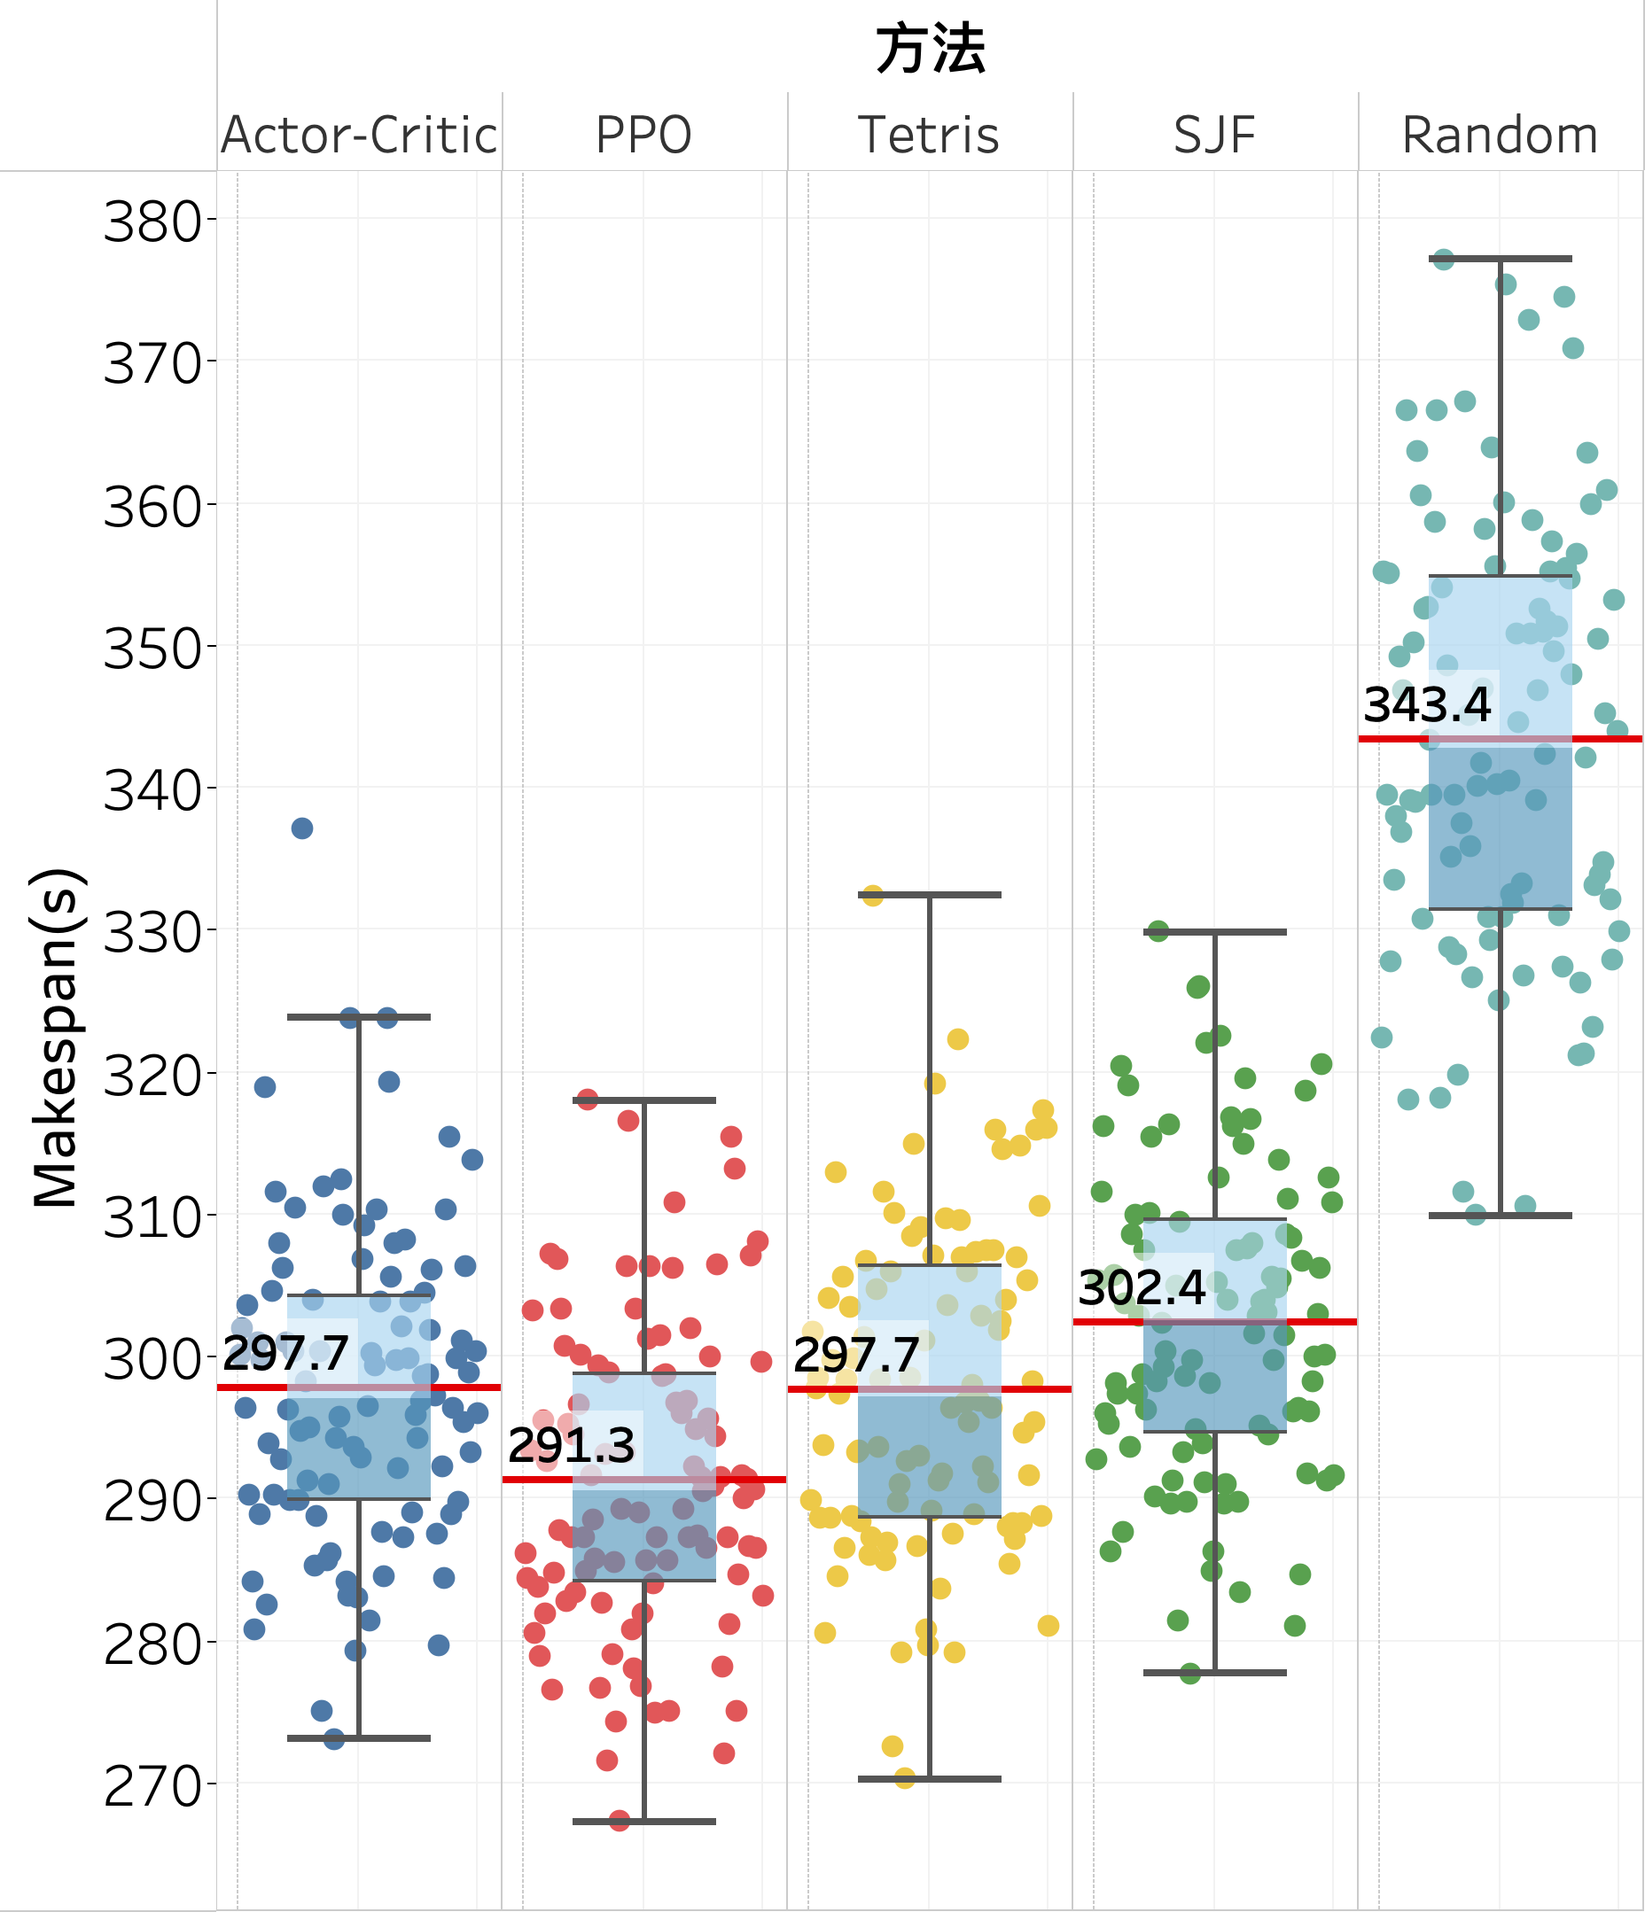
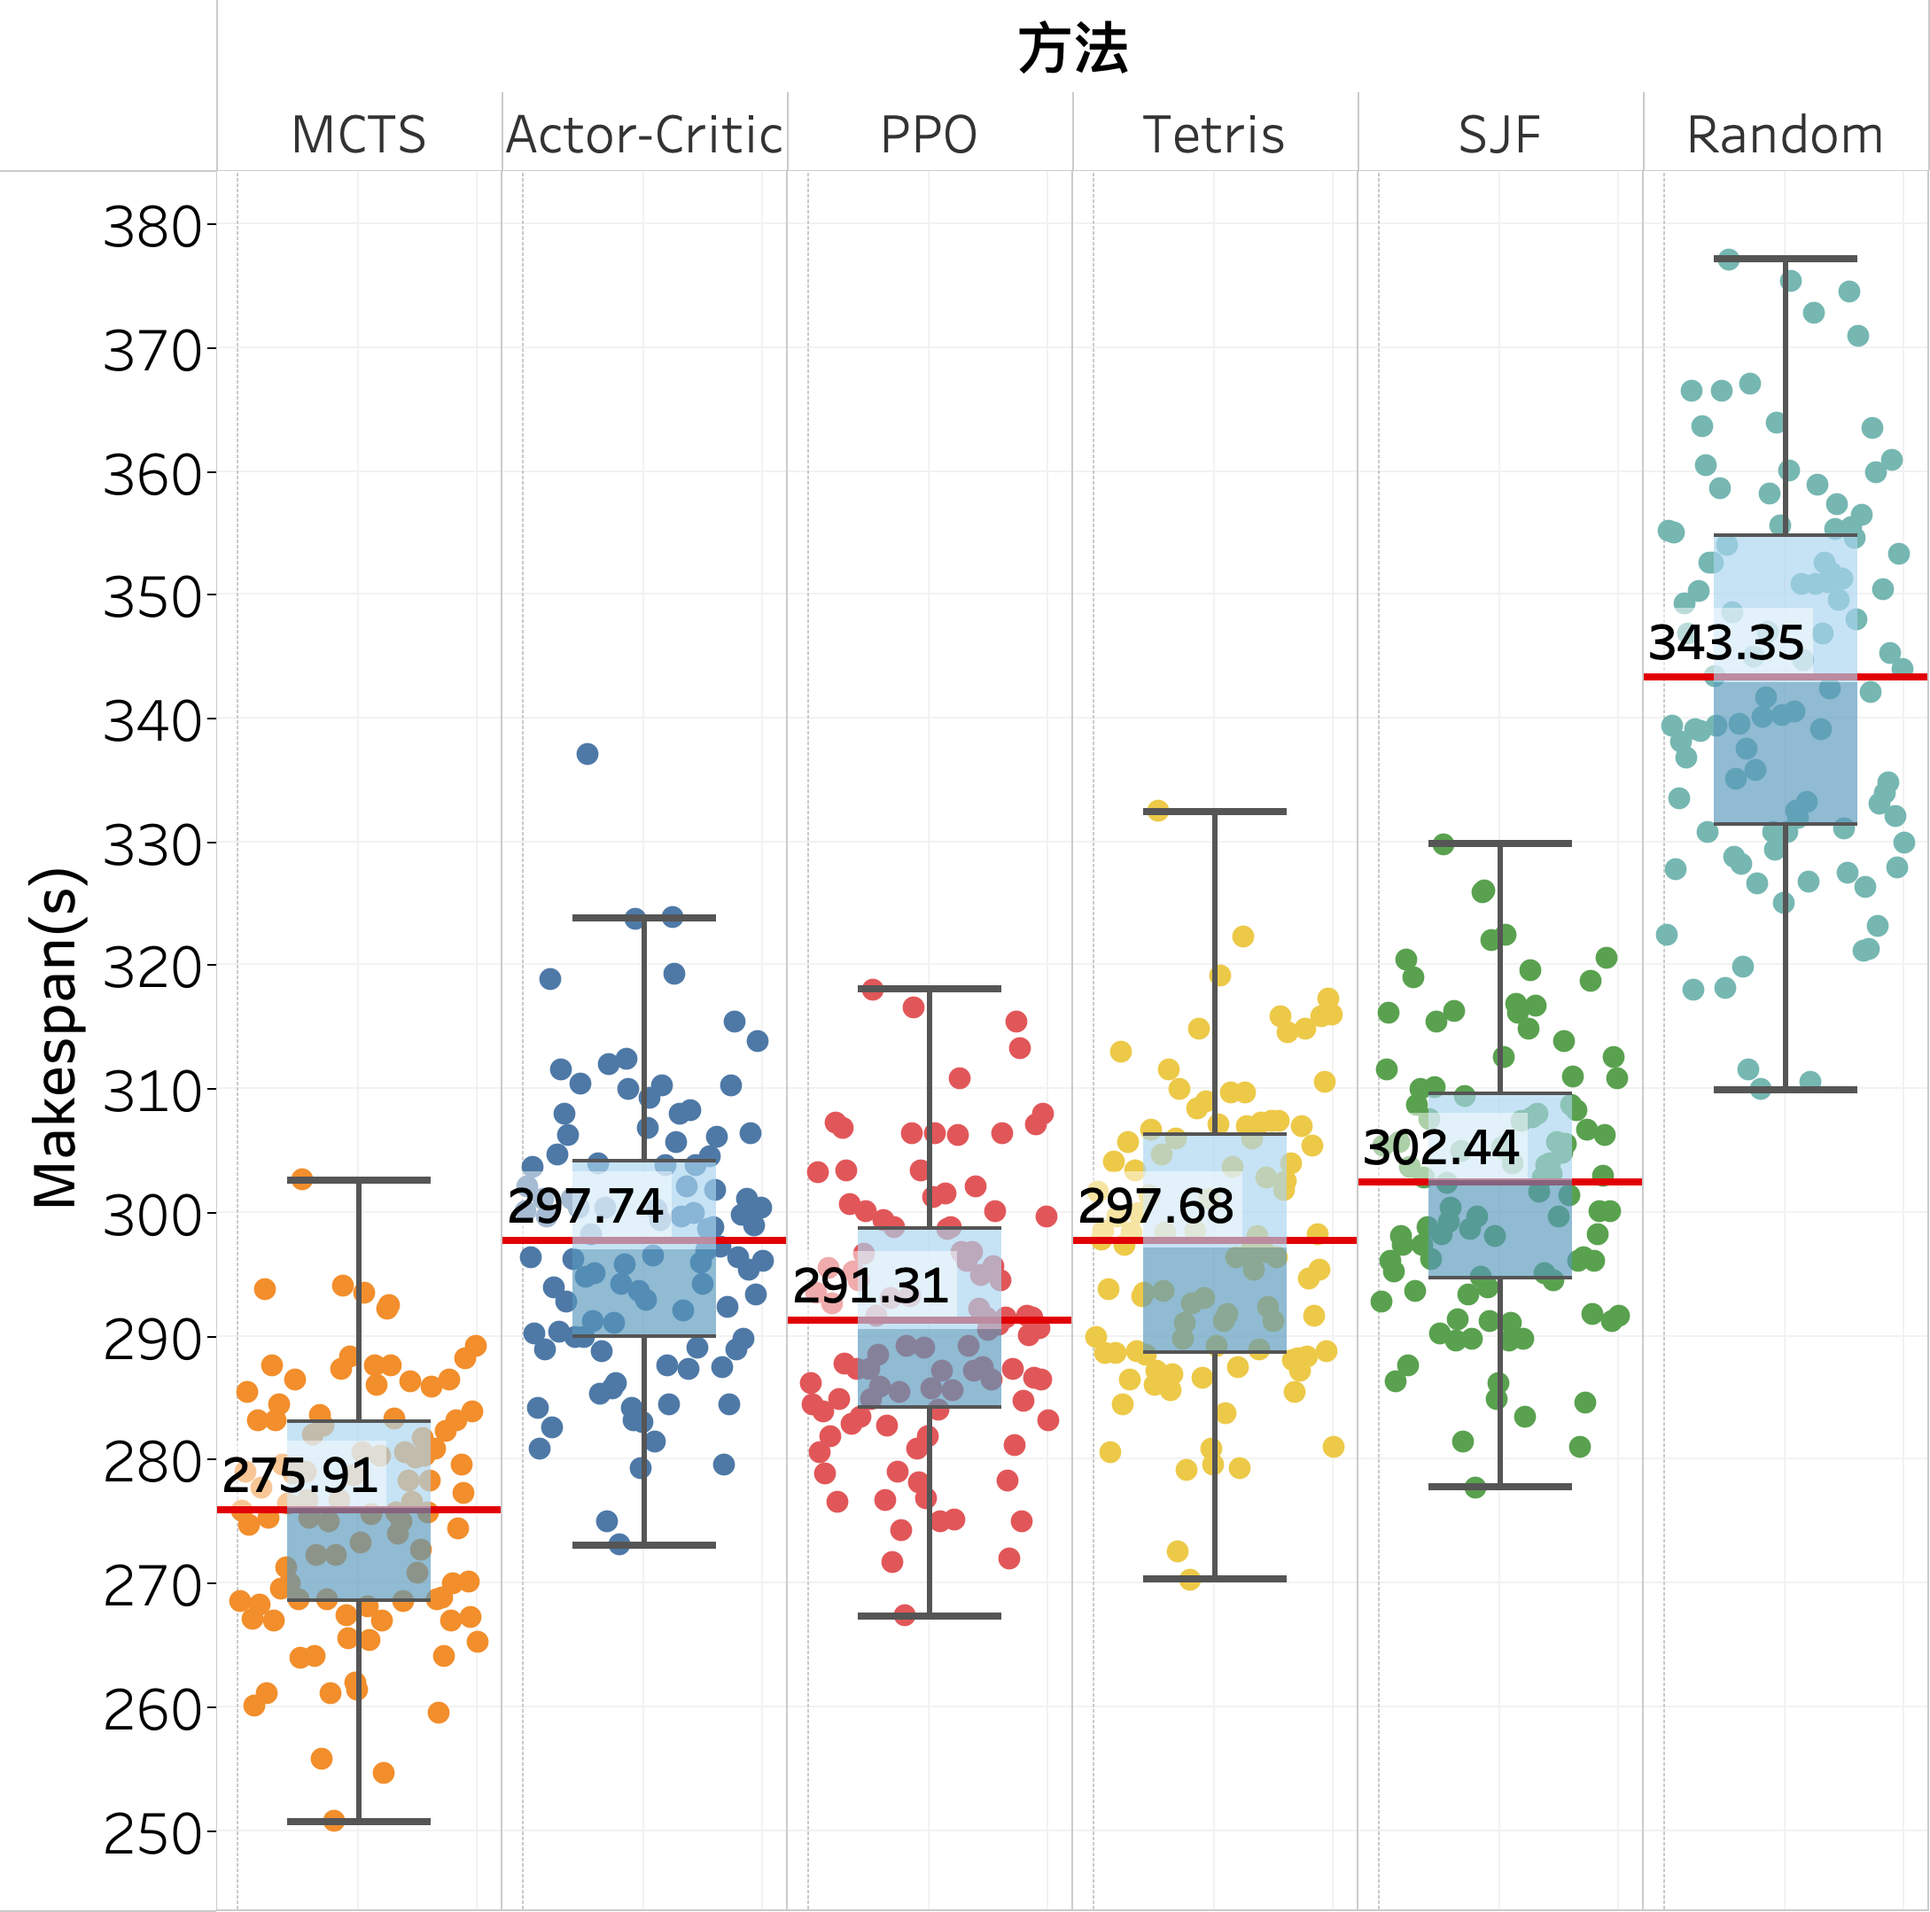
更新了实验数据 figures

diff --git a/baselines_tableau.py b/baselines_tableau.py
@@ -179,18 +179,9 @@ def tetris(n_iters):
         sum_reward = 0  # 记录每一幕的reward
         time = 0  # 记录makespan
         for i in count():
-            chance = random.random()
-            if chance <= 0.20:
-                action = random.choice(range(action_size)) - 1
-                state, reward, done, info = env.step(action)
-                while (info[0] == False):
-                    action = random.choice(range(action_size)) - 1
-                    state, reward, done, info = env.step(action)  # 输入step的都是
-                next_state, reward, done, _ = state, reward, done, info
-            else:
-                valid_state = check_res_Tetris(state)
-                action = alignment_score(valid_state)
-                next_state, reward, done, info = env.step(action)
+            valid_state = check_res_Tetris(state)
+            action = alignment_score(valid_state)
+            next_state, reward, done, info = env.step(action)
             sum_reward += reward
             state = next_state
             if done:
@@ -216,24 +207,15 @@ def sjf(n_iters):
         sum_reward = 0  # 记录每一幕的reward
         time = 0  # 记录makespan
         for i in count():
-            chance = random.random()
-            if chance <= 0.9:
-                if (check_res(state)):
-                    preaction = find_shortest_job(state)
-                    if check_ready(state, preaction):
-                        action = preaction
-                    else:
-                        action = -1
+            if (check_res(state)):
+                preaction = find_shortest_job(state)
+                if check_ready(state, preaction):
+                    action = preaction
                 else:
                     action = -1
-                next_state, reward, done, info = env.step(action)
             else:
-                action = random.choice(range(action_size)) - 1
-                state, reward, done, info = env.step(action)
-                while (info[0] == False):
-                    action = random.choice(range(action_size)) - 1
-                    state, reward, done, info = env.step(action)  # 输入step的都是
-                next_state, reward, done, _ = state, reward, done, info
+                action = -1
+            next_state, reward, done, info = env.step(action)
             sum_reward += reward
             state = next_state
             if done:

diff --git a/normalization.py b/normalization.py
@@ -1,0 +1,6 @@
+
+datas = [275.91,297.74,291.31,297.68,302.44,343.35]
+norm_data = []
+for i in range(len(datas)):
+    norm_data.append(datas[i]/max(datas))
+print(norm_data)
